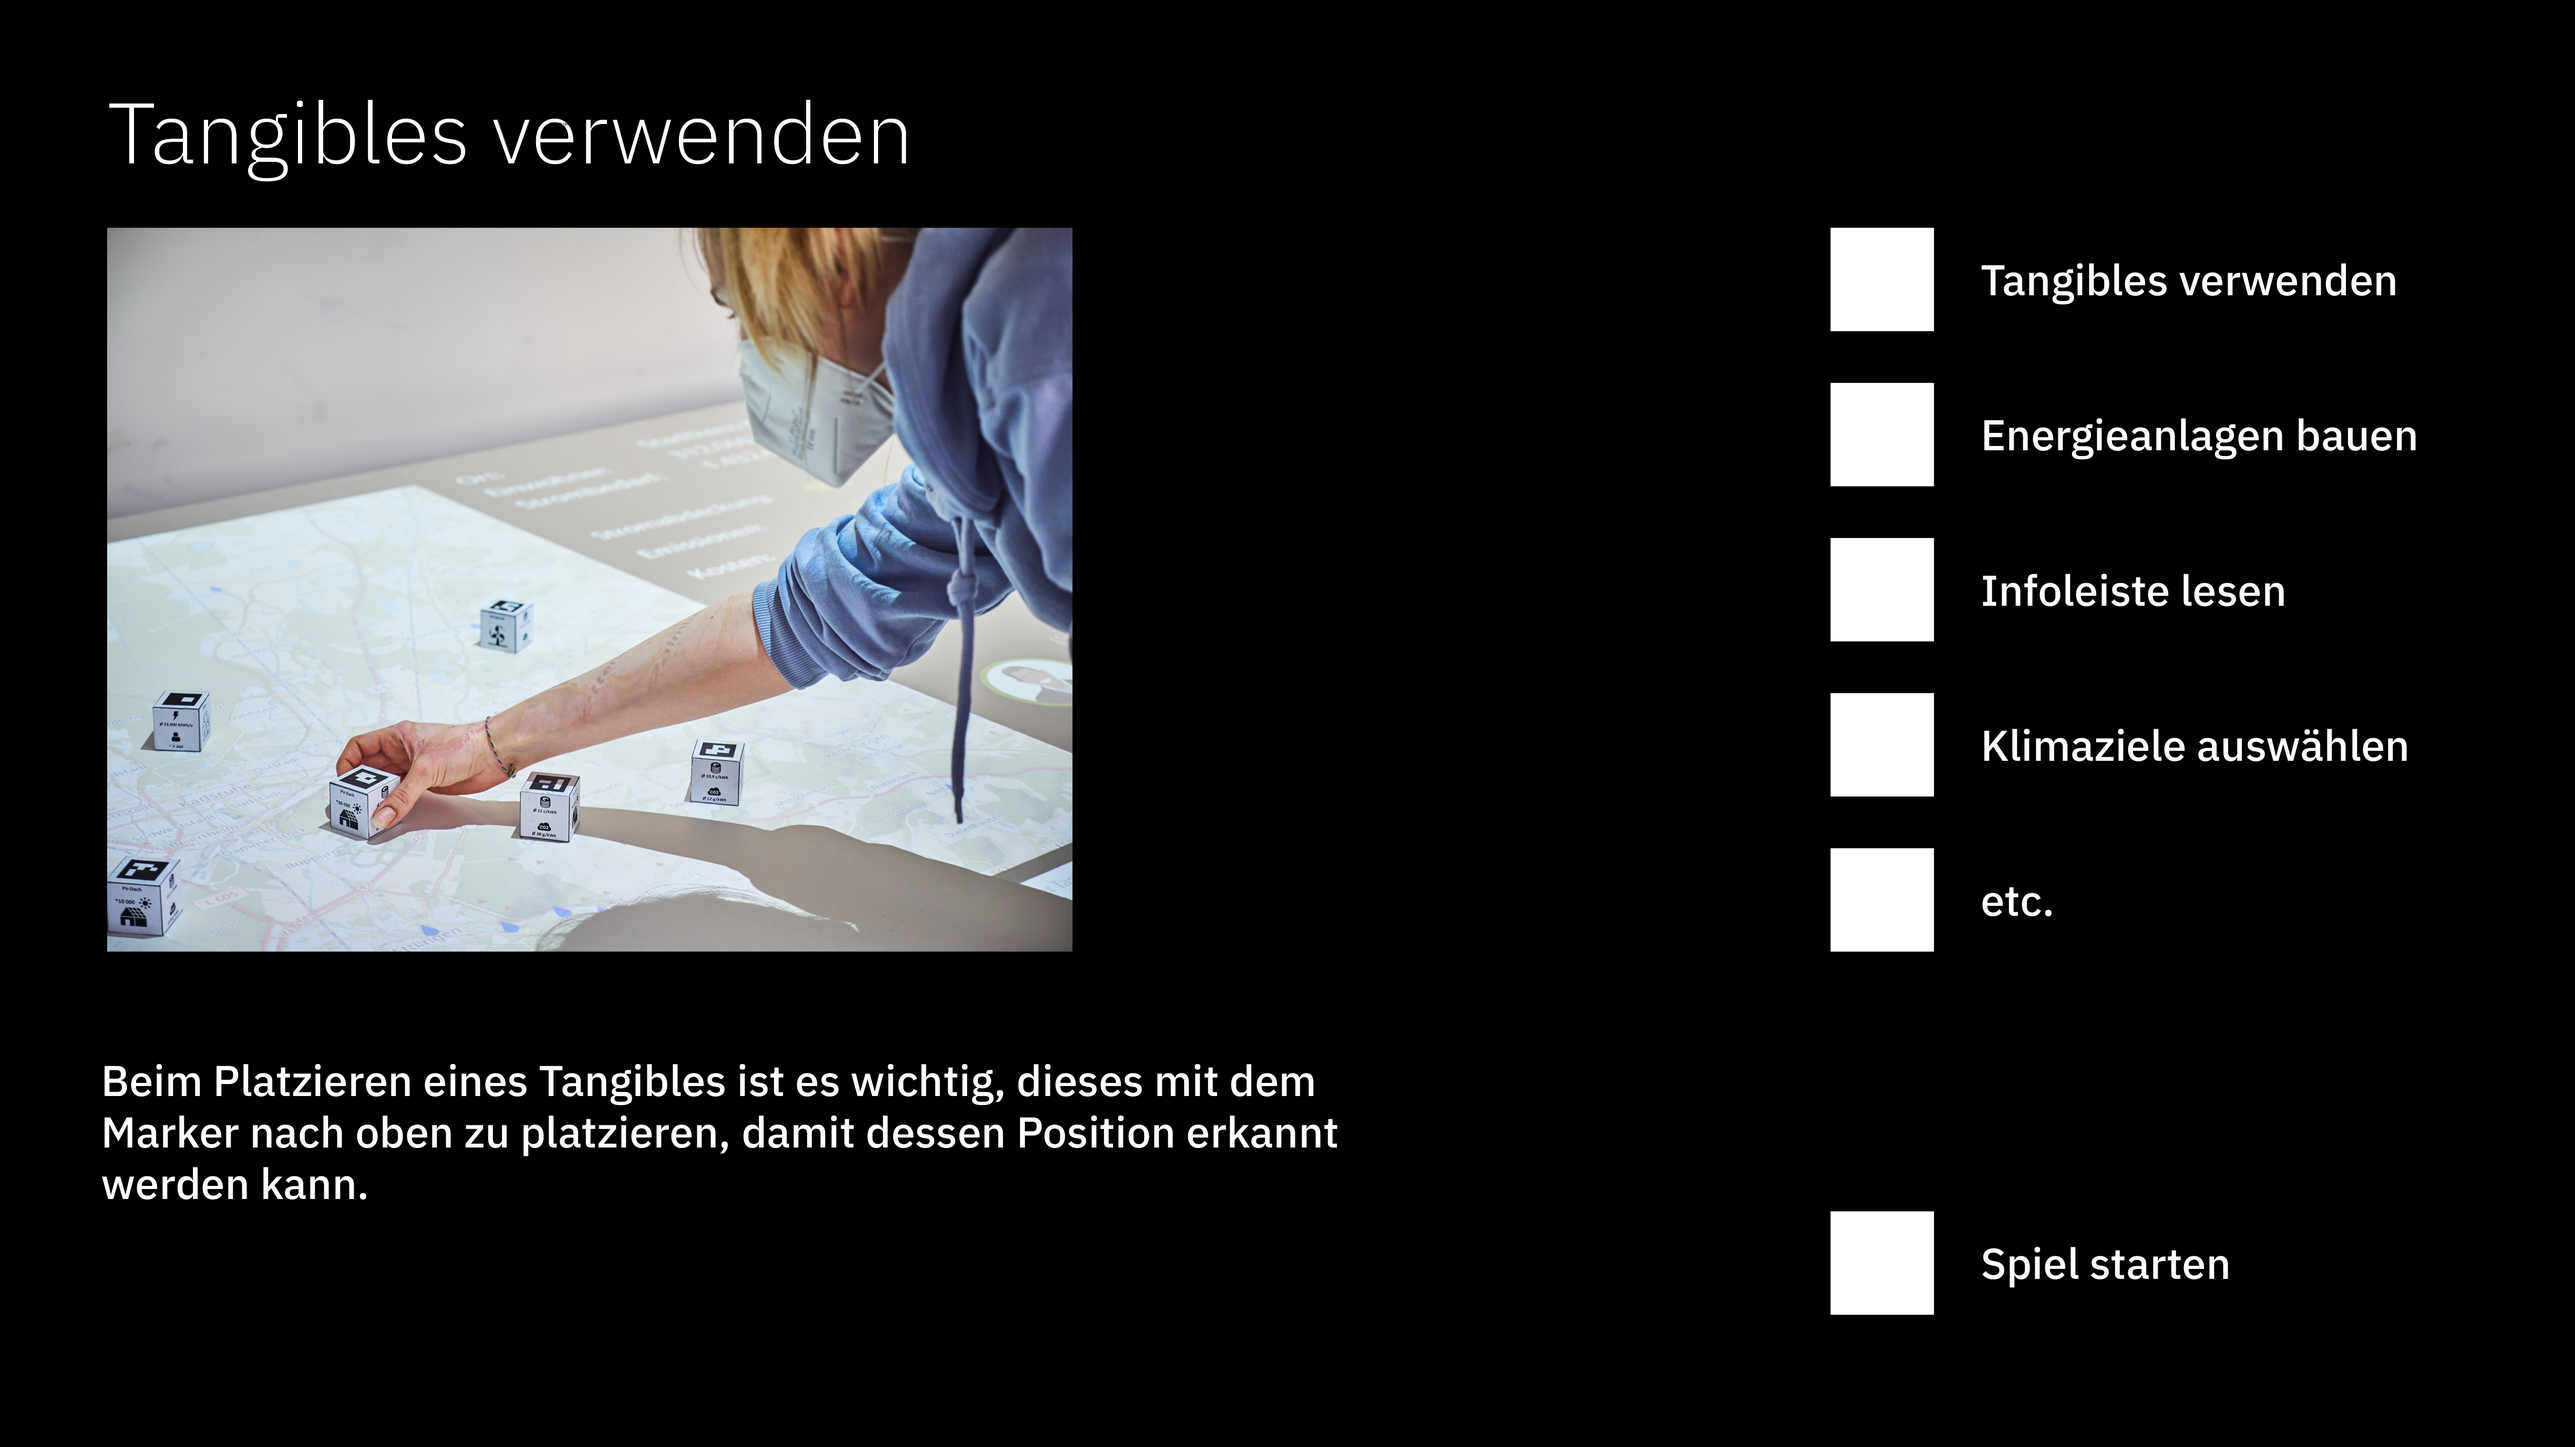
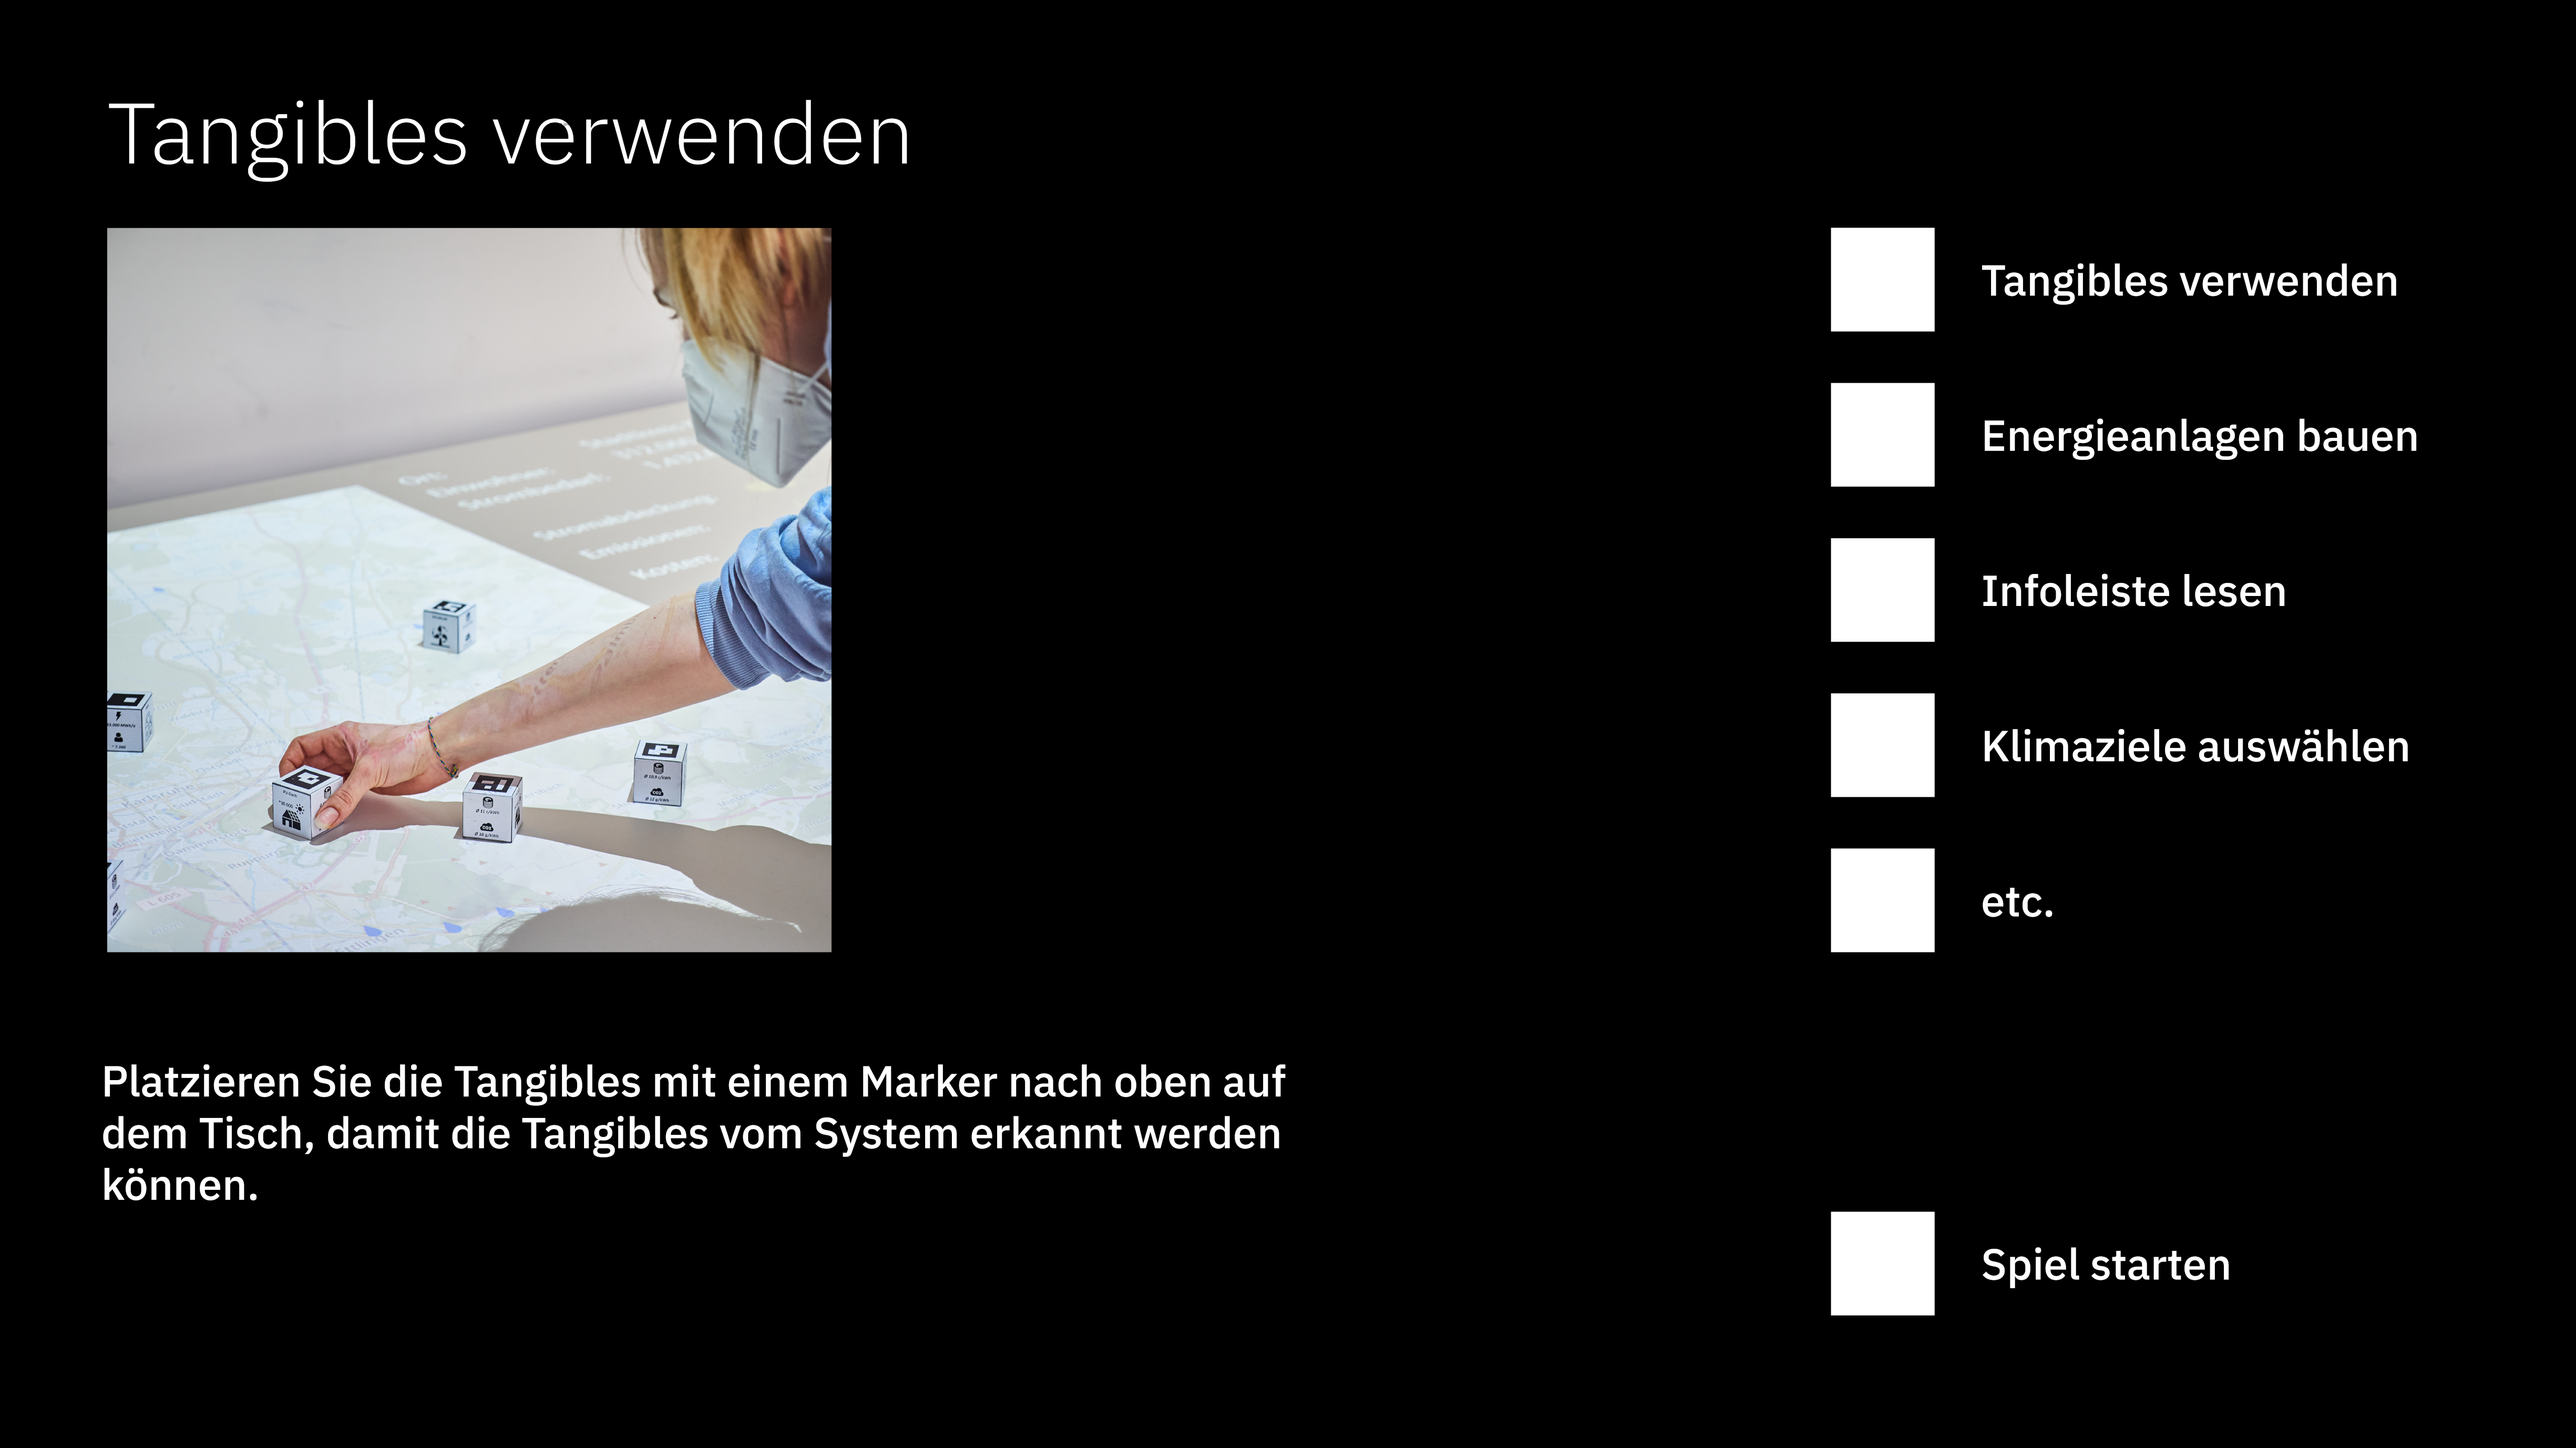
update tutorial pages

diff --git a/energy_app/dynamic_ui.py b/energy_app/dynamic_ui.py
@@ -288,7 +288,7 @@ class UI:
                 glTexImage2D(GL_TEXTURE_2D, 0, GL_RGB, tutorial_video_frame.shape[0], tutorial_video_frame.shape[1],
                              0, GL_BGR, GL_UNSIGNED_BYTE, img_data)
                 glBindTexture(GL_TEXTURE_2D, 0)
-                self.composite(self.video_canvas_tex, 2073, 433, 2073+1377, 433+1377)
+                self.composite(self.video_canvas_tex, 1675, 433, 1675+1380, 433+1380)
             glFlush()
             glBindFramebuffer(GL_FRAMEBUFFER, 0)
             glutSetWindow(w)
